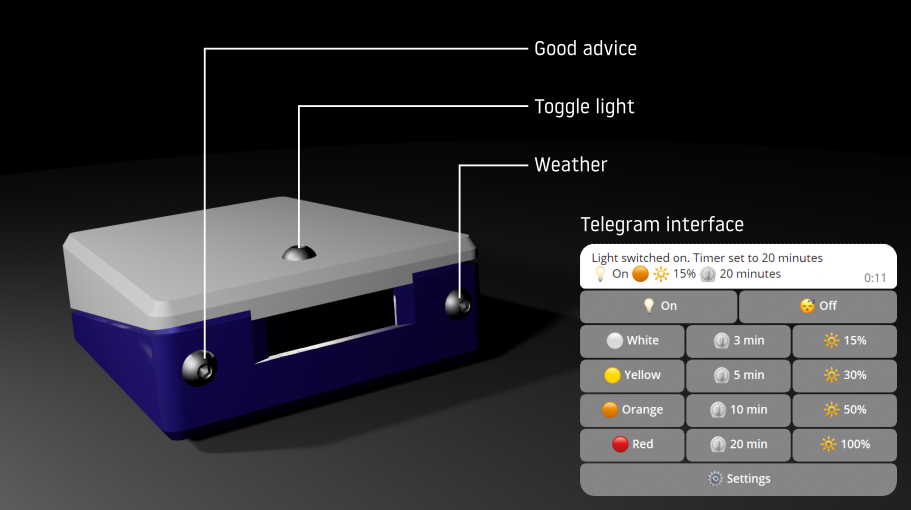
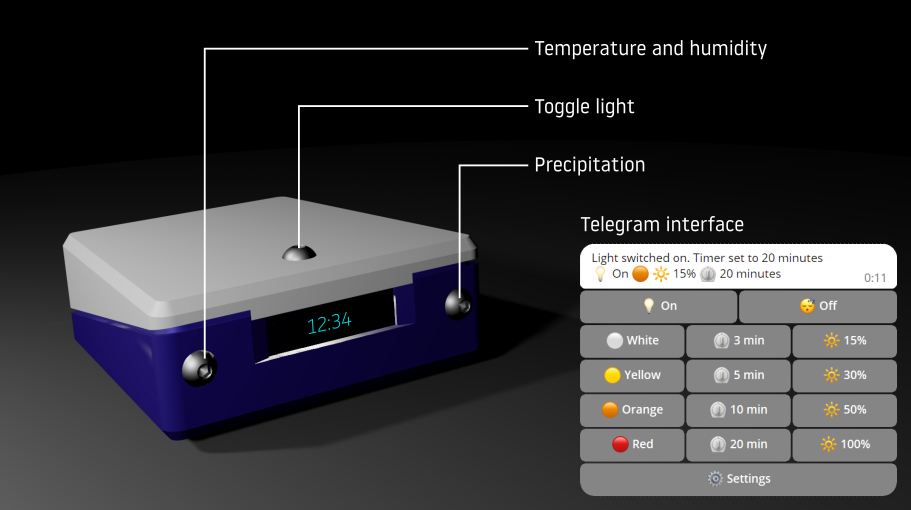
V1.9

Changed region(s): [[0.584, 0.0588, 0.8606, 0.1176], [0.584, 0.2941, 0.7069, 0.3529], [0.3381, 0.6176, 0.3996, 0.6471]]

diff --git a/04 Software/Bedlight/a_Data.h b/04 Software/Bedlight/a_Data.h
@@ -133,7 +133,7 @@ class milliSecTimer {
   public:
     unsigned long previous;
     unsigned long interval;
-    bool autoReset;
+    bool autoReset; // Beware, reset happens only when calling lapsed(), and interval is not accurate
     
     // Constructor
     milliSecTimer(unsigned long interval, bool autoReset = true) {
@@ -146,7 +146,7 @@ class milliSecTimer {
       
     bool lapsed() {
       bool result = (millis() - previous >= interval );
-      if(result and autoReset) reset();
+      if(result and autoReset) reset(); // interval could be made more accurate with % operator 
       return result;
     }
 };
@@ -174,6 +174,7 @@ class data_t {
     time_t daySunset = 0; // weather was last updated in 1970
     float maxDayTemp = -300;
     float maxTomorrowTemp = -300;
+    int16_t maxDisplayTemp = -300;
     int pressure = 0;
     float outsideFeelsLike = -300; 
     int humidity = -1;
@@ -210,6 +211,7 @@ class data_t {
     milliSecTimer lightStepTimer        = milliSecTimer(100, true);           // Change intensity of light in sall steps
     milliSecTimer refreshWeatherTimer   = milliSecTimer(12*60*1000, true);    // Refresh the weather
     milliSecTimer saveSettingsTimer     = milliSecTimer( 5*60*1000, true);    // Save settings if settings were changed
+    milliSecTimer loopWifiTimer         = milliSecTimer(1000, true);          // Check wifi
   
     void setColor( lightColor_t color) { 
       this->color = color; 

diff --git a/04 Software/Bedlight/f_Display.h b/04 Software/Bedlight/f_Display.h
@@ -179,14 +179,14 @@ void loopDisplay() {
         int humidX = u8g2.getDisplayWidth() - u8g2.getUTF8Width( HUMID_LABEL );
   
         u8g2.setFontPosTop();
-        u8g2.setCursor( 0           , 0);  u8g2.print( TEMP_LABEL  );
-        u8g2.setCursor( maxDayTempX , 0);  u8g2.print( MAX_DAY_LABEL  );
-        u8g2.setCursor( humidX      , 0);  u8g2.print( HUMID_LABEL );
+        u8g2.setCursor( 0           , 0);  u8g2.print( TEMP_LABEL    );
+        u8g2.setCursor( maxDayTempX , 0);  u8g2.print( MAX_DAY_LABEL );
+        u8g2.setCursor( humidX      , 0);  u8g2.print( HUMID_LABEL   );
   
         int w[6];
-        char outTemp[5];    snprintf( outTemp,    sizeof( outTemp    ), "%d", (int) data.outsideTemp      );
-        char maxDayTemp[5]; snprintf( maxDayTemp, sizeof( maxDayTemp ), "%d", (int) data.maxDayTemp);
-        char humid[5];      snprintf( humid,      sizeof( humid      ), "%d", data.humidity );
+        char outTemp[5];    snprintf( outTemp,    sizeof( outTemp    ), "%d", (int) data.outsideTemp    );
+        char maxDayTemp[5]; snprintf( maxDayTemp, sizeof( maxDayTemp ), "%d",       data.maxDisplayTemp );
+        char humid[5];      snprintf( humid,      sizeof( humid      ), "%d",       data.humidity       );
         
         u8g2.setFont( WEATHER2_VALUE );
         w[0] = u8g2.getUTF8Width( outTemp );

diff --git a/README.md b/README.md
@@ -9,11 +9,14 @@ Normally, the time is displayed on the screen, together with an icon representin
 
 The device has three touch buttons:
 * The top button is used to toggle the bedlight on and off. If the bedlight is switched on, it will automatically switch of after the timer expires. The timer can be set in the Telegram menu.
-* Upon touching the left button, an advice is displayed on the screen. After some time, the display switches back to the time
-* Upon touching the right button, the outside temperature is displayed, together with a graph showin the local precipitation for each minute of the next hour. If no precipitation is expected, an icon is displayed instead. After some time, the display switches back to the time.
+* Upon touching the left button, the current outside temperature, the daily maximum temperature and the outside relative humidity are displayed. After 15:00, the daily maximum temperature of the next day is displayed instead. 
+* Upon touching the right button, the outside temperature is displayed, together with a graph showin the local precipitation for each minute of the next hour. 
+
+After some time, the display switches back to the time.
 
 In Telegram, the light can be switched on or off, and the color, timer and intensity of the bedlight can be set. 
-Under settings, the intensity of the OLED screen can be set. The settings are saved if power is lost.  
+Under settings, the intensity of the OLED screen can be set. The settings are saved if power is lost. 
+Also under settings, a logfile with events can be retrieved for debugging purposes, and a logfile with weather data can be retrieved.
 
 
 ## Electrical hardware
@@ -122,4 +125,6 @@ Where:
 <sup>2)</sup> The code for the local timezone can be found in https://github.com/nayarsystems/posix_tz_db/blob/master/zones.csv
 
 <sup>3)</sup> The API key for Openweathermap can be retrieved after making an account at https://openweathermap.org/
+ The free plan allows for 1000 daily API calls. Currently, the weather is retrieved every 12 minutes, resulting in 120 daily calls.
+ 
 
